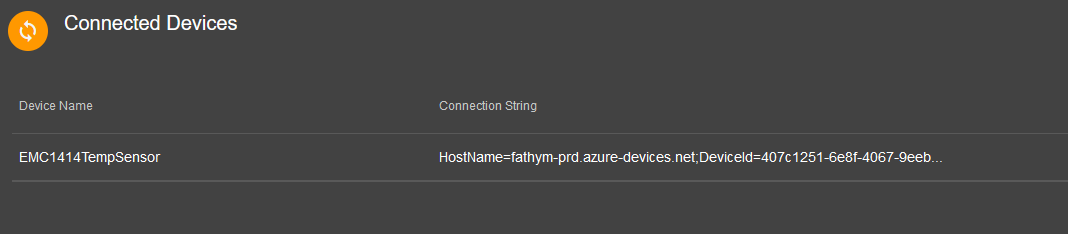
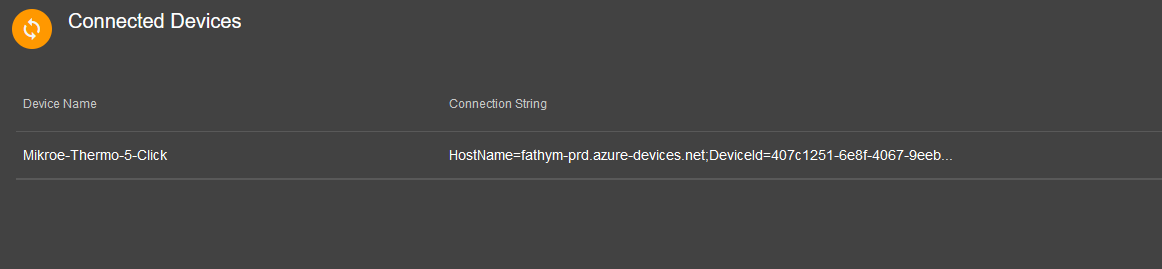
Completed Mikroe blogs

diff --git a/blog/2021-07-03-mikroe-azure-machine-learning.md b/blog/2021-07-03-mikroe-azure-machine-learning.md
@@ -1,0 +1,47 @@
+---
+title: Mikroe Conduit Machine Learning
+author: Matt Jackson
+author_title: Product Support Specialist @ Fathym
+author_url: https://www.iot-ensemble.com
+author_image_url: https://avatars.githubusercontent.com/u/55766355?v=4
+tags: [mikroe, mikroe click board, thermo 5 click, fathym, iot ensemble, microsoft azure, machine learning, devices, sensors, models, machine learning]
+hide_table_of_contents: true
+---
+
+Once you have your Mikroe Click board data flowing to the cloud, it's time to develop some fast and efficient algorithms and Machine Learning models for real-time processing of the data. Azure Machine Learning empowers us with a wide range of productive experiences for building, training, and deploying machine learning models faster. IoT Ensemble provides out of the box APIs that allow you to easily load your Mikroe data into Azure Machine Learning. But first things first, let's get our Mikroe Click boards connected to Microsoft Azure.
+
+![Mikroe Logo](/img/screenshots/Mikroe-blk-background-logo.png)
+
+Mikroe Click boards have a great guide located [here](https://github.com/Azure/azure-iot-device-ecosystem/blob/master/get_started/cec1702-iot-development-kit-no-operating-system-c.md) that shows how to connect your Mikroe Click board devices to an Azure IoT Hub running the devBoard_Azure_IoT_build package.  It's a great source and very informative. However, instead of going through all of the tedious steps outlined in the tutorial of setting up an Azure resource group, the IoT Hub, IoT Hub Device Provisioning Service, storage containers, the storage endpoints, and everything else, I prefer to use Fathym's [IoT Ensemble](https://www.iot-ensemble.com). With one click I can register my Mikroe Click board device and immediately get access to the data for downstream use in alerts, dashboards, visualizations, and machine learning. After I enroll my device in IoT Ensemble, it displays the IoT Hub connectionstring. I take the connectionstring into your config to use as my Azure Key and I'm ready to rock. Here's a screenshot of my device connected with the Mikroe Thermo 5 Click board temp sensor.
+
+![IoT Ensemble List Device](/img/screenshots/Mikroe-Connected-Device.png)
+
+:::info
+Please note the above referenced documentation utilizes the X.509 certificate to authenticate a device.  IoT Ensemble uses the Symmetric Key authentication.  The device config will need to be modified to communicate using a connectionstring instead of the certificate.  You can learn more about access to the IoT Hub using Shared Access Keys and security tokens **[here]( https://docs.microsoft.com/en-us/azure/iot-hub/iot-hub-dev-guide-sas?tabs=node)**
+:::
+
+The Mikroe data is immediately flowing to IoT Ensemble and I can view the data on screen. Reminder that behind the scenes in IoT Ensemble the Mikroe data is stored in Microsoft Azure in blob storage, as well as in CosmosDB. 
+
+:::tip How to access data in Microsoft Azure
+Behind the scenes in IoT Ensemble the Mikroe data is stored in Microsoft Azure in blob storage, as well as in CosmosDB. **[Read this](https://www.iot-ensemble.com/docs/getting-started/connecting-downstream)** to learn more about accessing your data.
+:::
+
+Fathym's IoT Ensemble is providing an easy-to-use UI for interacting with the data instead of using the Azure portal - and it saves me a ton of time and money.
+
+![Fathym IoT Ensemble](/img/screenshots/Mikroe-Dashboard.png)
+
+## Mikroe Click board Azure Machine Learning
+
+IoT Ensemble provides out of the box APIs that allow you to easily load your Mikroe data into Azure Machine Learning. This **[IoT Ensemble doc](https://www.iot-ensemble.com/docs/devs/storage/azure-ml)** explains how to use IoT Ensemble's cold query to configure an Azure ML Dataset and an associated Automated ML Task to run your model. Here's a couple of screenshots.
+
+![Azure Machine Learning Dataset](/img/screenshots/azure-ml-automated-ml-run-dataset-wizard-skip.png)
+
+![Azure Automated ML](/img/screenshots/azure-ml-automated-ml-running.png)
+
+**[Sign up](https://www.iot-ensemble.com/dashboard)** for IoT Ensemble and save your company thousands of dollars in Azure setup and management costs. Enroll your first Mikroe Click board with IoT Ensemble for free. No credit card required. No Azure account required. It really is that simple.
+
+:::info
+**[Enroll your first Mikroe Click board](https://www.iot-ensemble.com/dashboard)** with IoT Ensemble for free.
+No credit card required.
+No Azure account required.
+:::

diff --git a/blog/2021-07-03-mikroe-email-text-alerts.md b/blog/2021-07-03-mikroe-email-text-alerts.md
@@ -1,0 +1,45 @@
+---
+title: Mikroe Email & Text Alerts
+author: Matt Jackson
+author_title: Product Support Specialist @ Fathym
+author_url: https://www.iot-ensemble.com
+author_image_url: https://avatars.githubusercontent.com/u/55766355?v=4
+tags: [mikroe, mikroe click board, thermo 5 click, fathym, iot ensemble, microsoft azure, machine learning, devices, sensors, models, logic apps]
+hide_table_of_contents: true
+---
+
+Once you have your Mikroe Click board data flowing to the cloud, it's time to setup alerts and notifications so that you can easily monitor everything. I prefer using Microsoft Logic Apps for sending email and text alerts when temperatures rise above a specified threshold. But first things first, let's get our Mikroe Click board connected to Microsoft Azure.
+
+![Mikroe Logo](/img/screenshots/Mikroe-blk-background-logo.png)
+
+Mikroe Click boards have a great guide located [here](https://github.com/Azure/azure-iot-device-ecosystem/blob/master/get_started/cec1702-iot-development-kit-no-operating-system-c.md) that shows how to connect your Mikroe Click board devices to an Azure IoT Hub running the devBoard_Azure_IoT_build package.  It's a great source and very informative. However, instead of going through all of the tedious steps outlined in the tutorial of setting up an Azure resource group, the IoT Hub, IoT Hub Device Provisioning Service, storage containers, the storage endpoints, and everything else, I prefer to use Fathym's [IoT Ensemble](https://www.iot-ensemble.com). With one click I can register my Mikroe Click board device and immediately get access to the data for downstream use in alerts, dashboards, visualizations, and machine learning. After I enroll my device in IoT Ensemble, it displays the IoT Hub connectionstring. I take the connectionstring into your config to use as my Azure Key and I'm ready to rock. Here's a screenshot of my device connected with the Mikroe Thermo 5 Click board temp sensor.
+
+![IoT Ensemble List Device](/img/screenshots/Mikroe-Connected-Device.png)
+
+:::info
+Please note the above referenced documentation utilizes the X.509 certificate to authenticate a device.  IoT Ensemble uses the Symmetric Key authentication.  The device config will need to be modified to communicate using a connectionstring instead of the certificate.  You can learn more about access to the IoT Hub using Shared Access Keys and security tokens **[here]( https://docs.microsoft.com/en-us/azure/iot-hub/iot-hub-dev-guide-sas?tabs=node)**
+:::
+
+The Mikroe data is immediately flowing to IoT Ensemble and I can view the data on screen. Reminder that behind the scenes in IoT Ensemble the Mikroe data is stored in Microsoft Azure in blob storage, as well as in CosmosDB. 
+
+:::tip How to access data in Microsoft Azure
+Behind the scenes in IoT Ensemble the Mikroe data is stored in Microsoft Azure in blob storage, as well as in CosmosDB. **[Read this](https://www.iot-ensemble.com/docs/getting-started/connecting-downstream)** to learn more about accessing your data.
+:::
+
+Fathym's IoT Ensemble is providing an easy-to-use UI for interacting with the data instead of using the Azure portal - and it saves me a ton of time and money.
+
+![Fathym IoT Ensemble](/img/screenshots/Mikroe-Dashboard.png)
+
+## Mikroe Email & Text Alerts in Logic Apps
+
+Now that my Mikroe data is flowing to IoT Ensemble, it's time to setup the email alerts using Logic Apps. This **[IoT Ensemble doc](https://www.iot-ensemble.com/docs/devs/alerts/logic-apps)** explains how to use Logic Apps to call the IoT Ensemble warm query every 12 hours and check if the Temperature of any of the results is greater than 45. If so, it sends an email alert. Here's a screenshot.
+
+![Email Alert Logic Apps](/img/screenshots/logic-apps-sendemail-settings.png)
+
+**[Sign up](https://www.iot-ensemble.com/dashboard)** for IoT Ensemble and save your company thousands of dollars in Azure setup and management costs. Enroll your first Mikroe Click board with IoT Ensemble for free. No credit card required. No Azure account required. It really is that simple.
+
+:::info
+**[Enroll your first Mikroe Click board](https://www.iot-ensemble.com/dashboard)** with IoT Ensemble for free.
+No credit card required.
+No Azure account required.
+:::

diff --git a/blog/2021-07-03-mikroe-powerbi-reports.md b/blog/2021-07-03-mikroe-powerbi-reports.md
@@ -1,0 +1,45 @@
+---
+title: Mikroe Power BI Reports
+author: Matt Jackson
+author_title: Product Support Specialist @ Fathym
+author_url: https://www.iot-ensemble.com
+author_image_url: https://avatars.githubusercontent.com/u/55766355?v=4
+tags: [mikroe, mikroe click board, thermo 5 click, fathym, iot ensemble, microsoft azure, machine learning, devices, sensors, models, power bi]
+hide_table_of_contents: true
+---
+
+Once you have your Mikroe Click board data flowing to the cloud, it's time to create some Power BI reports so that you can easily monitor everything. But first things first, let's get our Mikroe Click board connected to Microsoft Azure.
+
+![Mikroe Logo](/img/screenshots/Mikroe-blk-background-logo.png)
+
+Mikroe Click boards have a great guide located [here](https://github.com/Azure/azure-iot-device-ecosystem/blob/master/get_started/cec1702-iot-development-kit-no-operating-system-c.md) that shows how to connect your Mikroe Click board devices to an Azure IoT Hub running the devBoard_Azure_IoT_build package.  It's a great source and very informative. However, instead of going through all of the tedious steps outlined in the tutorial of setting up an Azure resource group, the IoT Hub, IoT Hub Device Provisioning Service, storage containers, the storage endpoints, and everything else, I prefer to use Fathym's [IoT Ensemble](https://www.iot-ensemble.com). With one click I can register my Mikroe Click board device and immediately get access to the data for downstream use in alerts, dashboards, visualizations, and machine learning. After I enroll my device in IoT Ensemble, it displays the IoT Hub connectionstring. I take the connectionstring into your config to use as my Azure Key and I'm ready to rock. Here's a screenshot of my device connected with the Mikroe Thermo 5 Click board temp sensor.
+
+![IoT Ensemble List Device](/img/screenshots/Mikroe-Connected-Device.png)
+
+:::info
+Please note the above referenced documentation utilizes the X.509 certificate to authenticate a device.  IoT Ensemble uses the Symmetric Key authentication.  The device config will need to be modified to communicate using a connectionstring instead of the certificate.  You can learn more about access to the IoT Hub using Shared Access Keys and security tokens **[here]( https://docs.microsoft.com/en-us/azure/iot-hub/iot-hub-dev-guide-sas?tabs=node)**
+:::
+
+The Mikroe data is immediately flowing to IoT Ensemble and I can view the data on screen. Reminder that behind the scenes in IoT Ensemble the Mikroe data is stored in Microsoft Azure in blob storage, as well as in CosmosDB. 
+
+:::tip How to access data in Microsoft Azure
+Behind the scenes in IoT Ensemble the Mikroe data is stored in Microsoft Azure in blob storage, as well as in CosmosDB. **[Read this](https://www.iot-ensemble.com/docs/getting-started/connecting-downstream)** to learn more about accessing your data.
+:::
+
+Fathym's IoT Ensemble is providing an easy-to-use UI for interacting with the data instead of using the Azure portal - and it saves me a ton of time and money.
+
+![Fathym IoT Ensemble](/img/screenshots/Mikroe-Dashboard.png)
+
+## Mikroe Power BI Reports
+
+Now that my Mikroe data is flowing to IoT Ensemble, it's time to create some Power BI reports to monitor everything. This **[IoT Ensemble doc](https://www.iot-ensemble.com/docs/devs/storage/power-bi)** explains how to import data from IoT Ensemble into Power BI and setup reports and visualizations. Here's a screenshot.
+
+![Power BI Reports](https://powerbicdn.azureedge.net/mediahandler/blog/legacymedia/5078.dashboard5.png)
+
+**[Sign up](https://www.iot-ensemble.com/dashboard)** for IoT Ensemble and save your company thousands of dollars in Azure setup and management costs. Enroll your first Mikroe Click board with IoT Ensemble for free. No credit card required. No Azure account required. It really is that simple.
+
+:::info
+**[Enroll your first Mikroe Click board](https://www.iot-ensemble.com/dashboard)** with IoT Ensemble for free.
+No credit card required.
+No Azure account required.
+:::

diff --git a/blog/2021-07-03-mikroe-tableau-dashboard.md b/blog/2021-07-03-mikroe-tableau-dashboard.md
@@ -1,0 +1,45 @@
+---
+title: Mikroe Tableau Dashboards
+author: Matt Jackson
+author_title: Product Support Specialist @ Fathym
+author_url: https://www.iot-ensemble.com
+author_image_url: https://avatars.githubusercontent.com/u/55766355?v=4
+tags: [mikroe, mikroe click board, thermo 5 click, fathym, iot ensemble, microsoft azure, machine learning, devices, sensors, models, tableau]
+hide_table_of_contents: true
+---
+
+Once you have your Mikroe Click board data flowing to the cloud, it's time to create some Tableau Dashboards so that you can easily monitor everything. But first things first, let's get our Mikroe Click board connected to Microsoft Azure.
+
+![Mikroe Logo](/img/screenshots/Mikroe-blk-background-logo.png)
+
+Mikroe Click boards have a great guide located [here](https://github.com/Azure/azure-iot-device-ecosystem/blob/master/get_started/cec1702-iot-development-kit-no-operating-system-c.md) that shows how to connect your Mikroe Click board devices to an Azure IoT Hub running the devBoard_Azure_IoT_build package.  It's a great source and very informative. However, instead of going through all of the tedious steps outlined in the tutorial of setting up an Azure resource group, the IoT Hub, IoT Hub Device Provisioning Service, storage containers, the storage endpoints, and everything else, I prefer to use Fathym's [IoT Ensemble](https://www.iot-ensemble.com). With one click I can register my Mikroe Click board device and immediately get access to the data for downstream use in alerts, dashboards, visualizations, and machine learning. After I enroll my device in IoT Ensemble, it displays the IoT Hub connectionstring. I take the connectionstring into your config to use as my Azure Key and I'm ready to rock. Here's a screenshot of my device connected with the Mikroe Thermo 5 Click board temp sensor.
+
+![IoT Ensemble List Device](/img/screenshots/Mikroe-Connected-Device.png)
+
+:::info
+Please note the above referenced documentation utilizes the X.509 certificate to authenticate a device.  IoT Ensemble uses the Symmetric Key authentication.  The device config will need to be modified to communicate using a connectionstring instead of the certificate.  You can learn more about access to the IoT Hub using Shared Access Keys and security tokens **[here]( https://docs.microsoft.com/en-us/azure/iot-hub/iot-hub-dev-guide-sas?tabs=node)**
+:::
+
+The Mikroe data is immediately flowing to IoT Ensemble and I can view the data on screen. Reminder that behind the scenes in IoT Ensemble the Mikroe data is stored in Microsoft Azure in blob storage, as well as in CosmosDB. 
+
+:::tip How to access data in Microsoft Azure
+Behind the scenes in IoT Ensemble the Mikroe data is stored in Microsoft Azure in blob storage, as well as in CosmosDB. **[Read this](https://www.iot-ensemble.com/docs/getting-started/connecting-downstream)** to learn more about accessing your data.
+:::
+
+Fathym's IoT Ensemble is providing an easy-to-use UI for interacting with the data instead of using the Azure portal - and it saves me a ton of time and money.
+
+![Fathym IoT Ensemble](/img/screenshots/Mikroe-Dashboard.png)
+
+## Mikroe Tableau Dashboard
+
+Now that my Mikroe data is flowing to IoT Ensemble, it's time to create some Tableau Dashboards to monitor everything. This **[IoT Ensemble doc](https://www.iot-ensemble.com/docs/devs/storage/tableau)** explains how to import data from IoT Ensemble into Tableau and setup a dashboard. Here's a screenshot.
+
+![Tableau Dashboard](/img/screenshots/mikroe-tableau-dashboard.png)
+
+**[Sign up](https://www.iot-ensemble.com/dashboard)** for IoT Ensemble and save your company thousands of dollars in Azure setup and management costs. Enroll your first Mikroe Click board with IoT Ensemble for free. No credit card required. No Azure account required. It really is that simple.
+
+:::info
+**[Enroll your first Mikroe Click board](https://www.iot-ensemble.com/dashboard)** with IoT Ensemble for free.
+No credit card required.
+No Azure account required.
+:::

diff --git a/blog/2021-07-03-mikroe-grafana-dashboard.md b/blog/2021-07-03-mikroe-grafana-dashboard.md
@@ -1,0 +1,45 @@
+---
+title: Mikroe Grafana Dashboards
+author: Matt Jackson
+author_title: Product Support Specialist @ Fathym
+author_url: https://www.iot-ensemble.com
+author_image_url: https://avatars.githubusercontent.com/u/55766355?v=4
+tags: [mikroe, mikroe click board, thermo 5 click, fathym, iot ensemble, microsoft azure, machine learning, devices, sensors, models, grafana]
+hide_table_of_contents: true
+---
+
+Once you have your Mikroe Click board data flowing to the cloud, it's time to create some Grafana Dashboards so that you can easily monitor everything. But first things first, let's get our Mikroe Click board connected to Microsoft Azure.
+
+![Mikroe Logo](/img/screenshots/Mikroe-blk-background-logo.png)
+
+Mikroe Click boards have a great guide located [here](https://github.com/Azure/azure-iot-device-ecosystem/blob/master/get_started/cec1702-iot-development-kit-no-operating-system-c.md) that shows how to connect your Mikroe Click board devices to an Azure IoT Hub running the devBoard_Azure_IoT_build package.  It's a great source and very informative. However, instead of going through all of the tedious steps outlined in the tutorial of setting up an Azure resource group, the IoT Hub, IoT Hub Device Provisioning Service, storage containers, the storage endpoints, and everything else, I prefer to use Fathym's [IoT Ensemble](https://www.iot-ensemble.com). With one click I can register my Mikroe Click board device and immediately get access to the data for downstream use in alerts, dashboards, visualizations, and machine learning. After I enroll my device in IoT Ensemble, it displays the IoT Hub connectionstring. I take the connectionstring into your config to use as my Azure Key and I'm ready to rock. Here's a screenshot of my device connected with the Mikroe Thermo 5 Click board temp sensor.
+
+![IoT Ensemble List Device](/img/screenshots/Mikroe-Connected-Device.png)
+
+:::info
+Please note the above referenced documentation utilizes the X.509 certificate to authenticate a device.  IoT Ensemble uses the Symmetric Key authentication.  The device config will need to be modified to communicate using a connectionstring instead of the certificate.  You can learn more about access to the IoT Hub using Shared Access Keys and security tokens [here]( https://docs.microsoft.com/en-us/azure/iot-hub/iot-hub-dev-guide-sas?tabs=node)
+:::
+
+The Mikroe data is immediately flowing to IoT Ensemble and I can view the data on screen. Reminder that behind the scenes in IoT Ensemble the Mikroe data is stored in Microsoft Azure in blob storage, as well as in CosmosDB. 
+
+:::tip How to access data in Microsoft Azure
+Behind the scenes in IoT Ensemble the Mikroe data is stored in Microsoft Azure in blob storage, as well as in CosmosDB. [Read this](https://www.iot-ensemble.com/docs/getting-started/connecting-downstream) to learn more about accessing your data.
+:::
+
+Fathym's IoT Ensemble is providing an easy-to-use UI for interacting with the data instead of using the Azure portal - and it saves me a ton of time and money.
+
+![Fathym IoT Ensemble](/img/screenshots/Mikroe-Dashboard.png)
+
+## Mikroe Grafana Dashboards
+
+Now that my Mikroe data is flowing to IoT Ensemble, it's time to create some Grafana Dashboards to monitor everything. This [IoT Ensemble doc](https://www.iot-ensemble.com/docs/devs/storage/grafana) explains how to import data from IoT Ensemble into Grafana and setup a dashboard. Here's a screenshot.
+
+![Grafana Dashboard](/img/screenshots/Mikroe-Grafana-Dashboard.png)
+
+[Sign up](https://www.iot-ensemble.com/dashboard) for IoT Ensemble and save your company thousands of dollars in Azure setup and management costs. Enroll your first Mikroe Click board with IoT Ensemble for free. No credit card required. No Azure account required. It really is that simple.
+
+:::info
+[Enroll your first Mikroe Click board](https://www.iot-ensemble.com/dashboard) with IoT Ensemble for free.
+No credit card required.
+No Azure account required.
+:::
